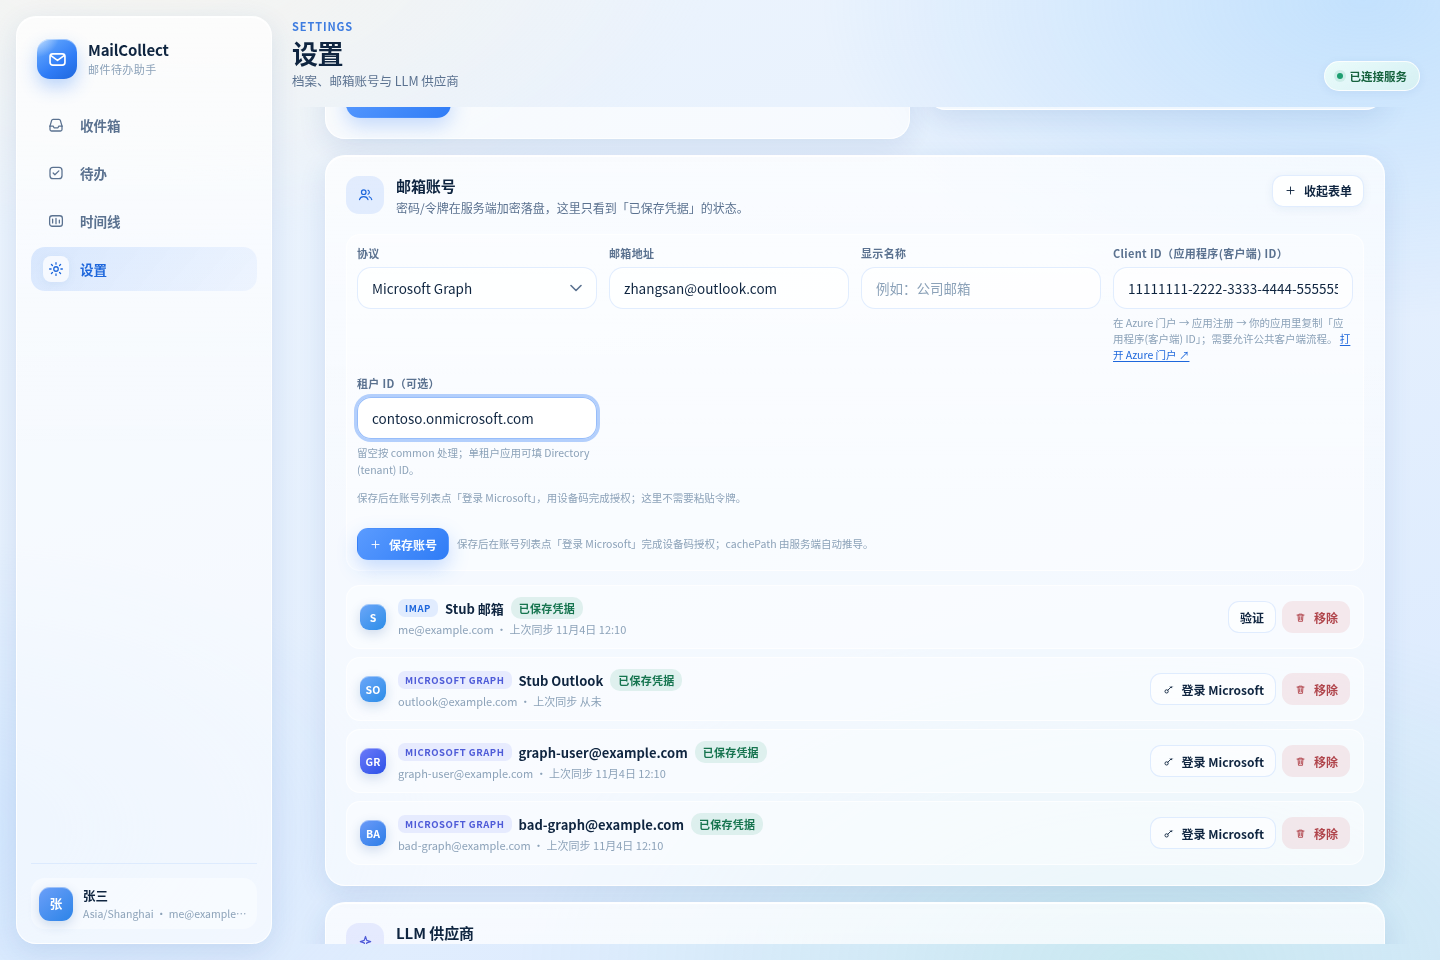
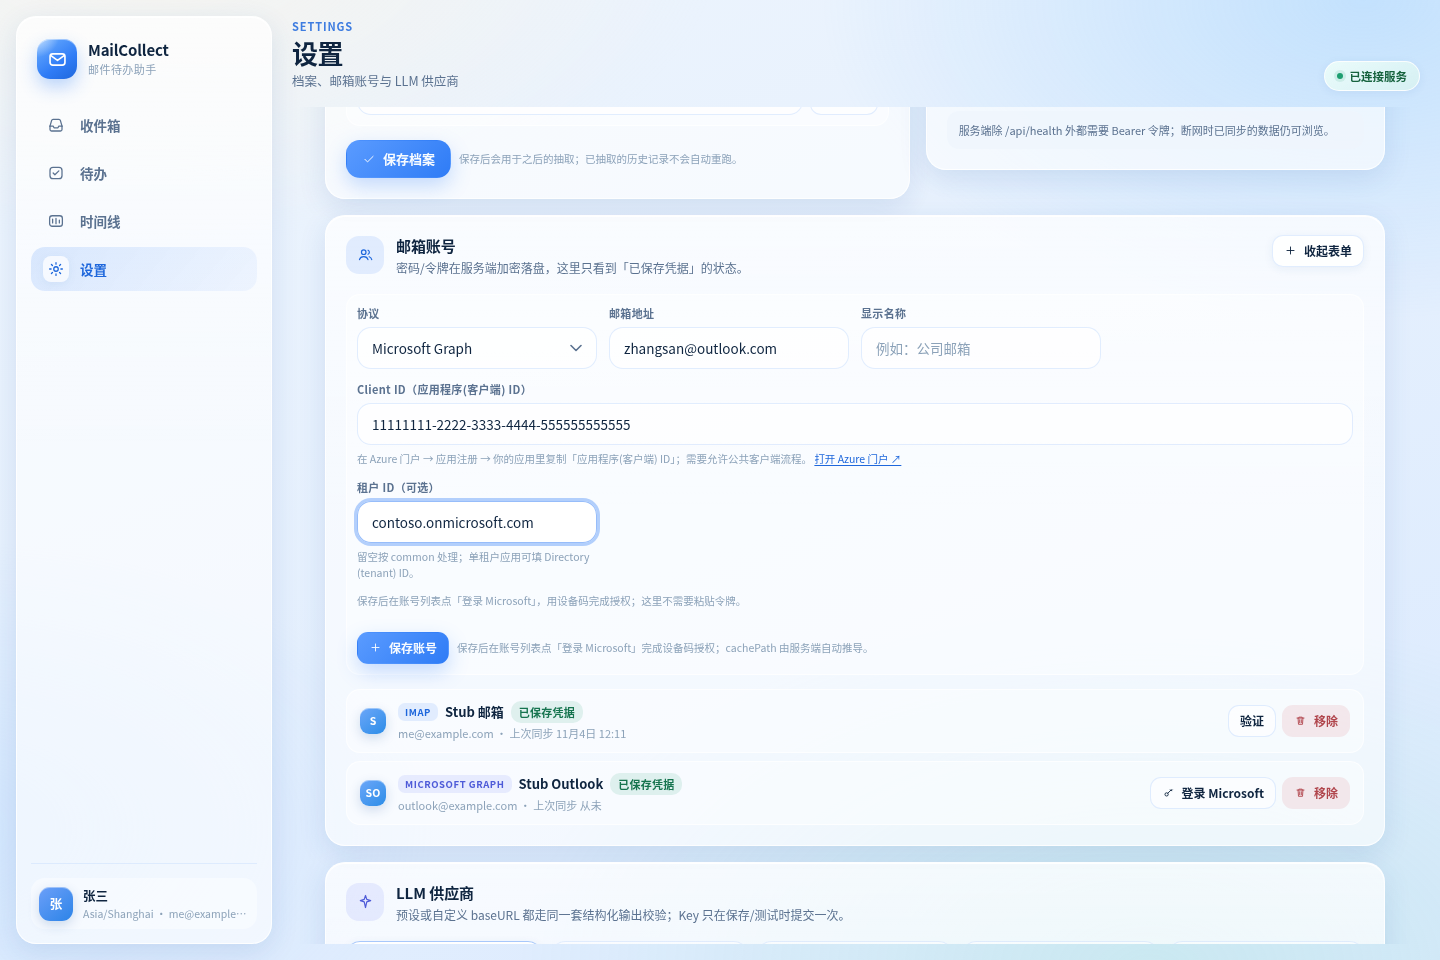
feat(ui): collect the Azure client id the Graph flow actually needs
The account form now asks for Client ID (required) and tenant (optional) when
Microsoft Graph is selected, hides the password field (device-code flow needs no
pasted token), links to the Azure portal, validates locally, and shows the
server's 400 detail inside the form instead of a toast.

Live on the packaged server: SSE 7/7, Graph chain 8/8, screenshots clean.

diff --git a/apps/ui/src/pages/SettingsPage.tsx b/apps/ui/src/pages/SettingsPage.tsx
@@ -669,7 +669,7 @@ export function SettingsPage({
 
               {provider === "graph" ? (
                 <>
-                  <div className="form-row">
+                  <div className="form-row form-row--full">
                     <label className="field-label" htmlFor="account-client-id">
                       Client ID（应用程序(客户端) ID）
                     </label>
